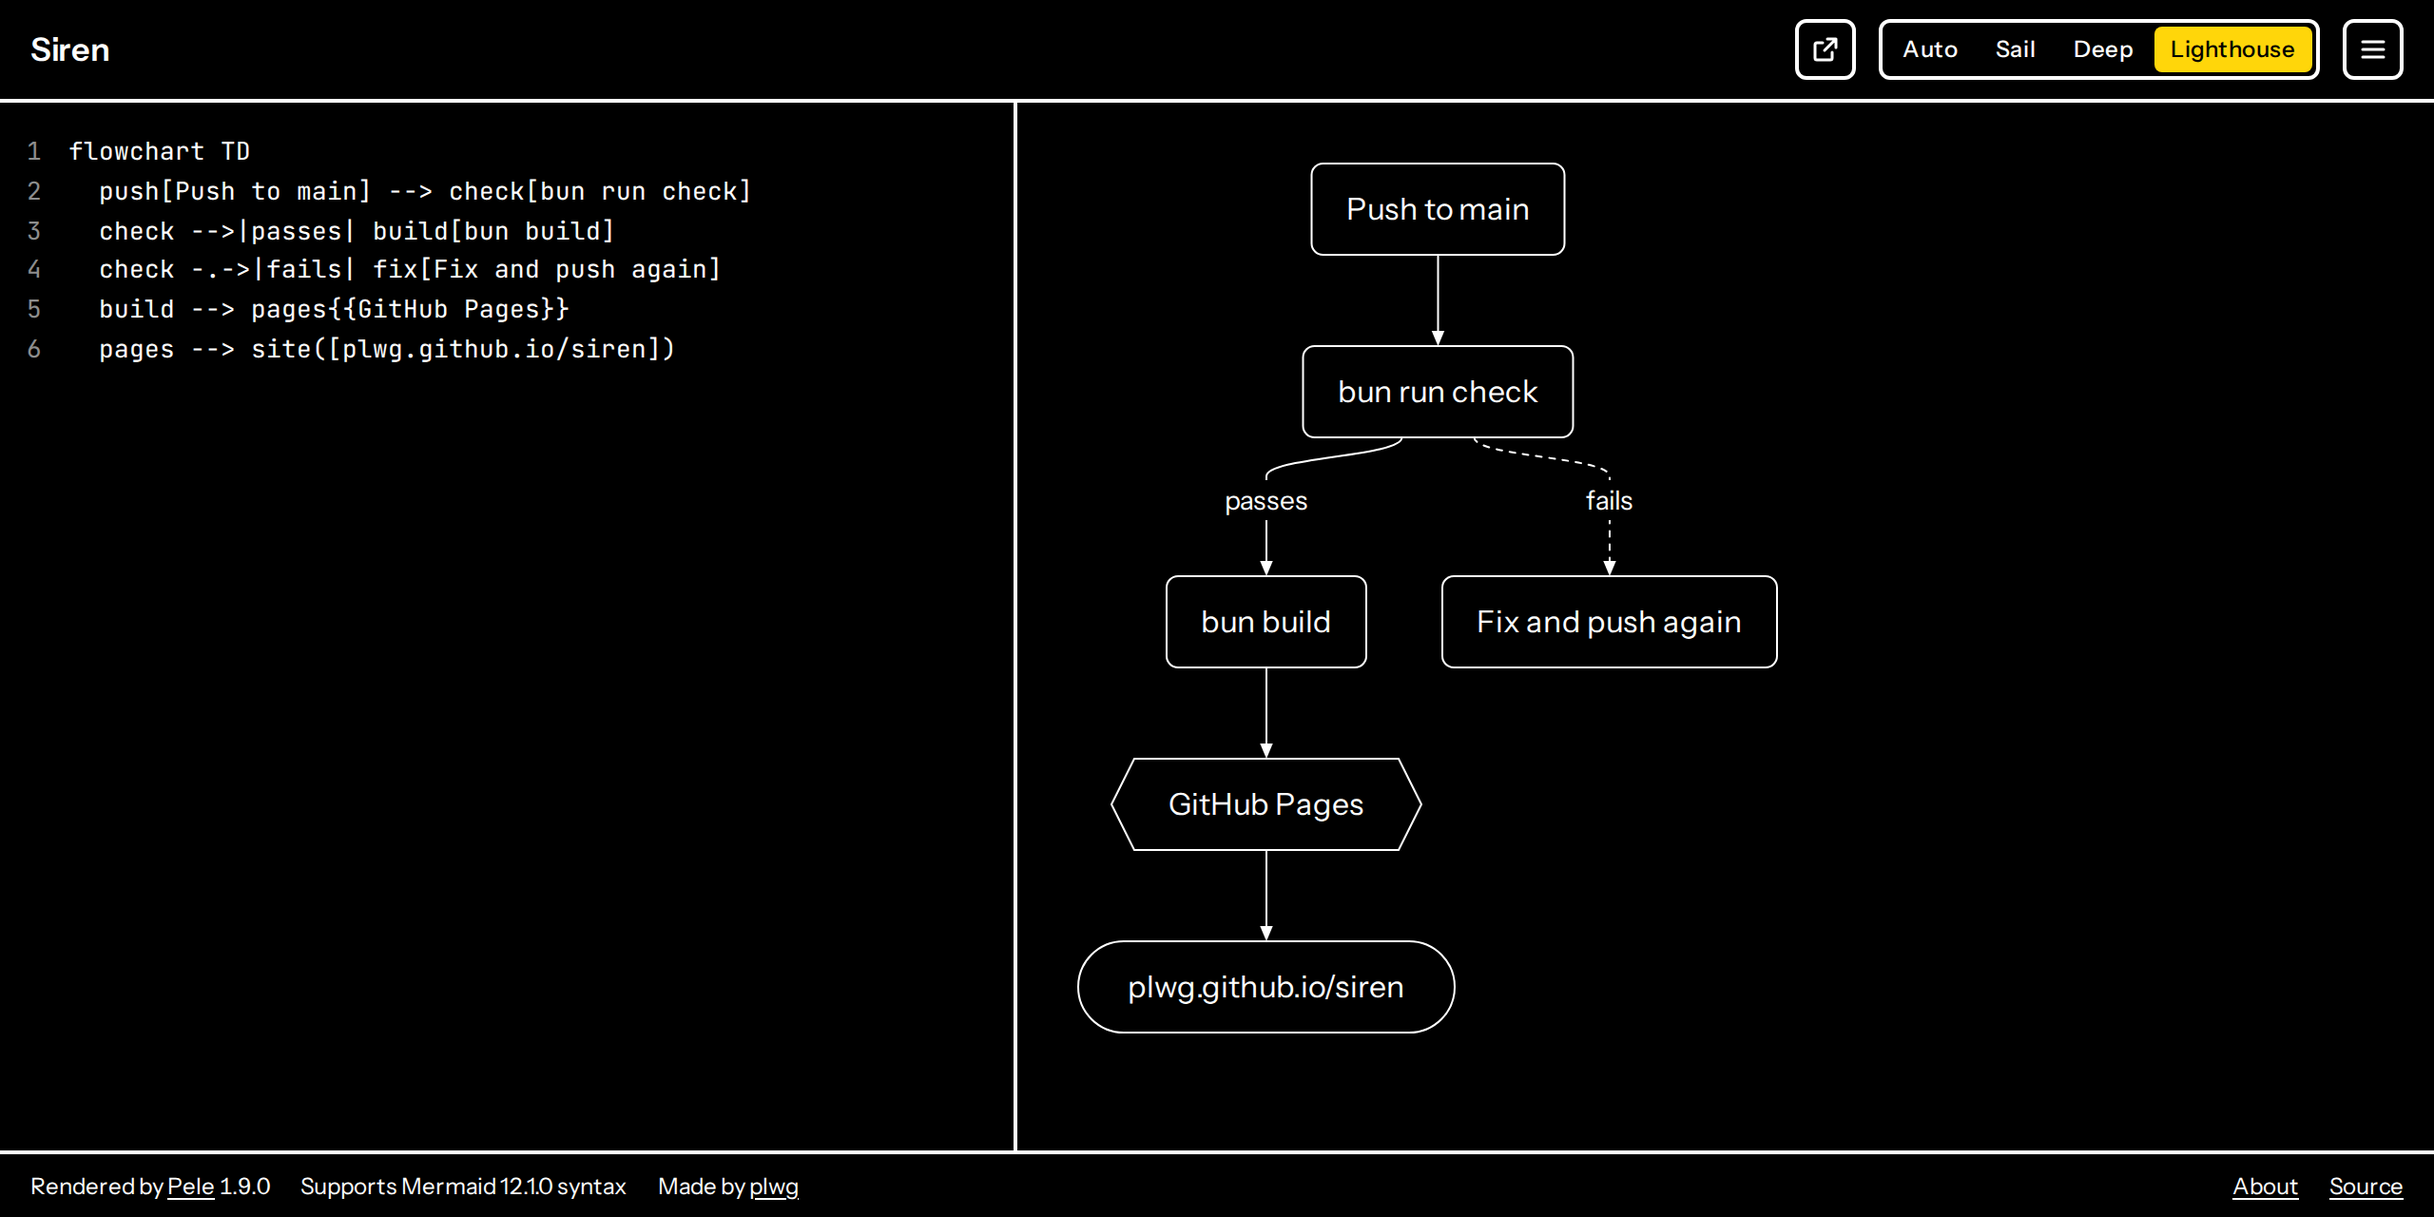
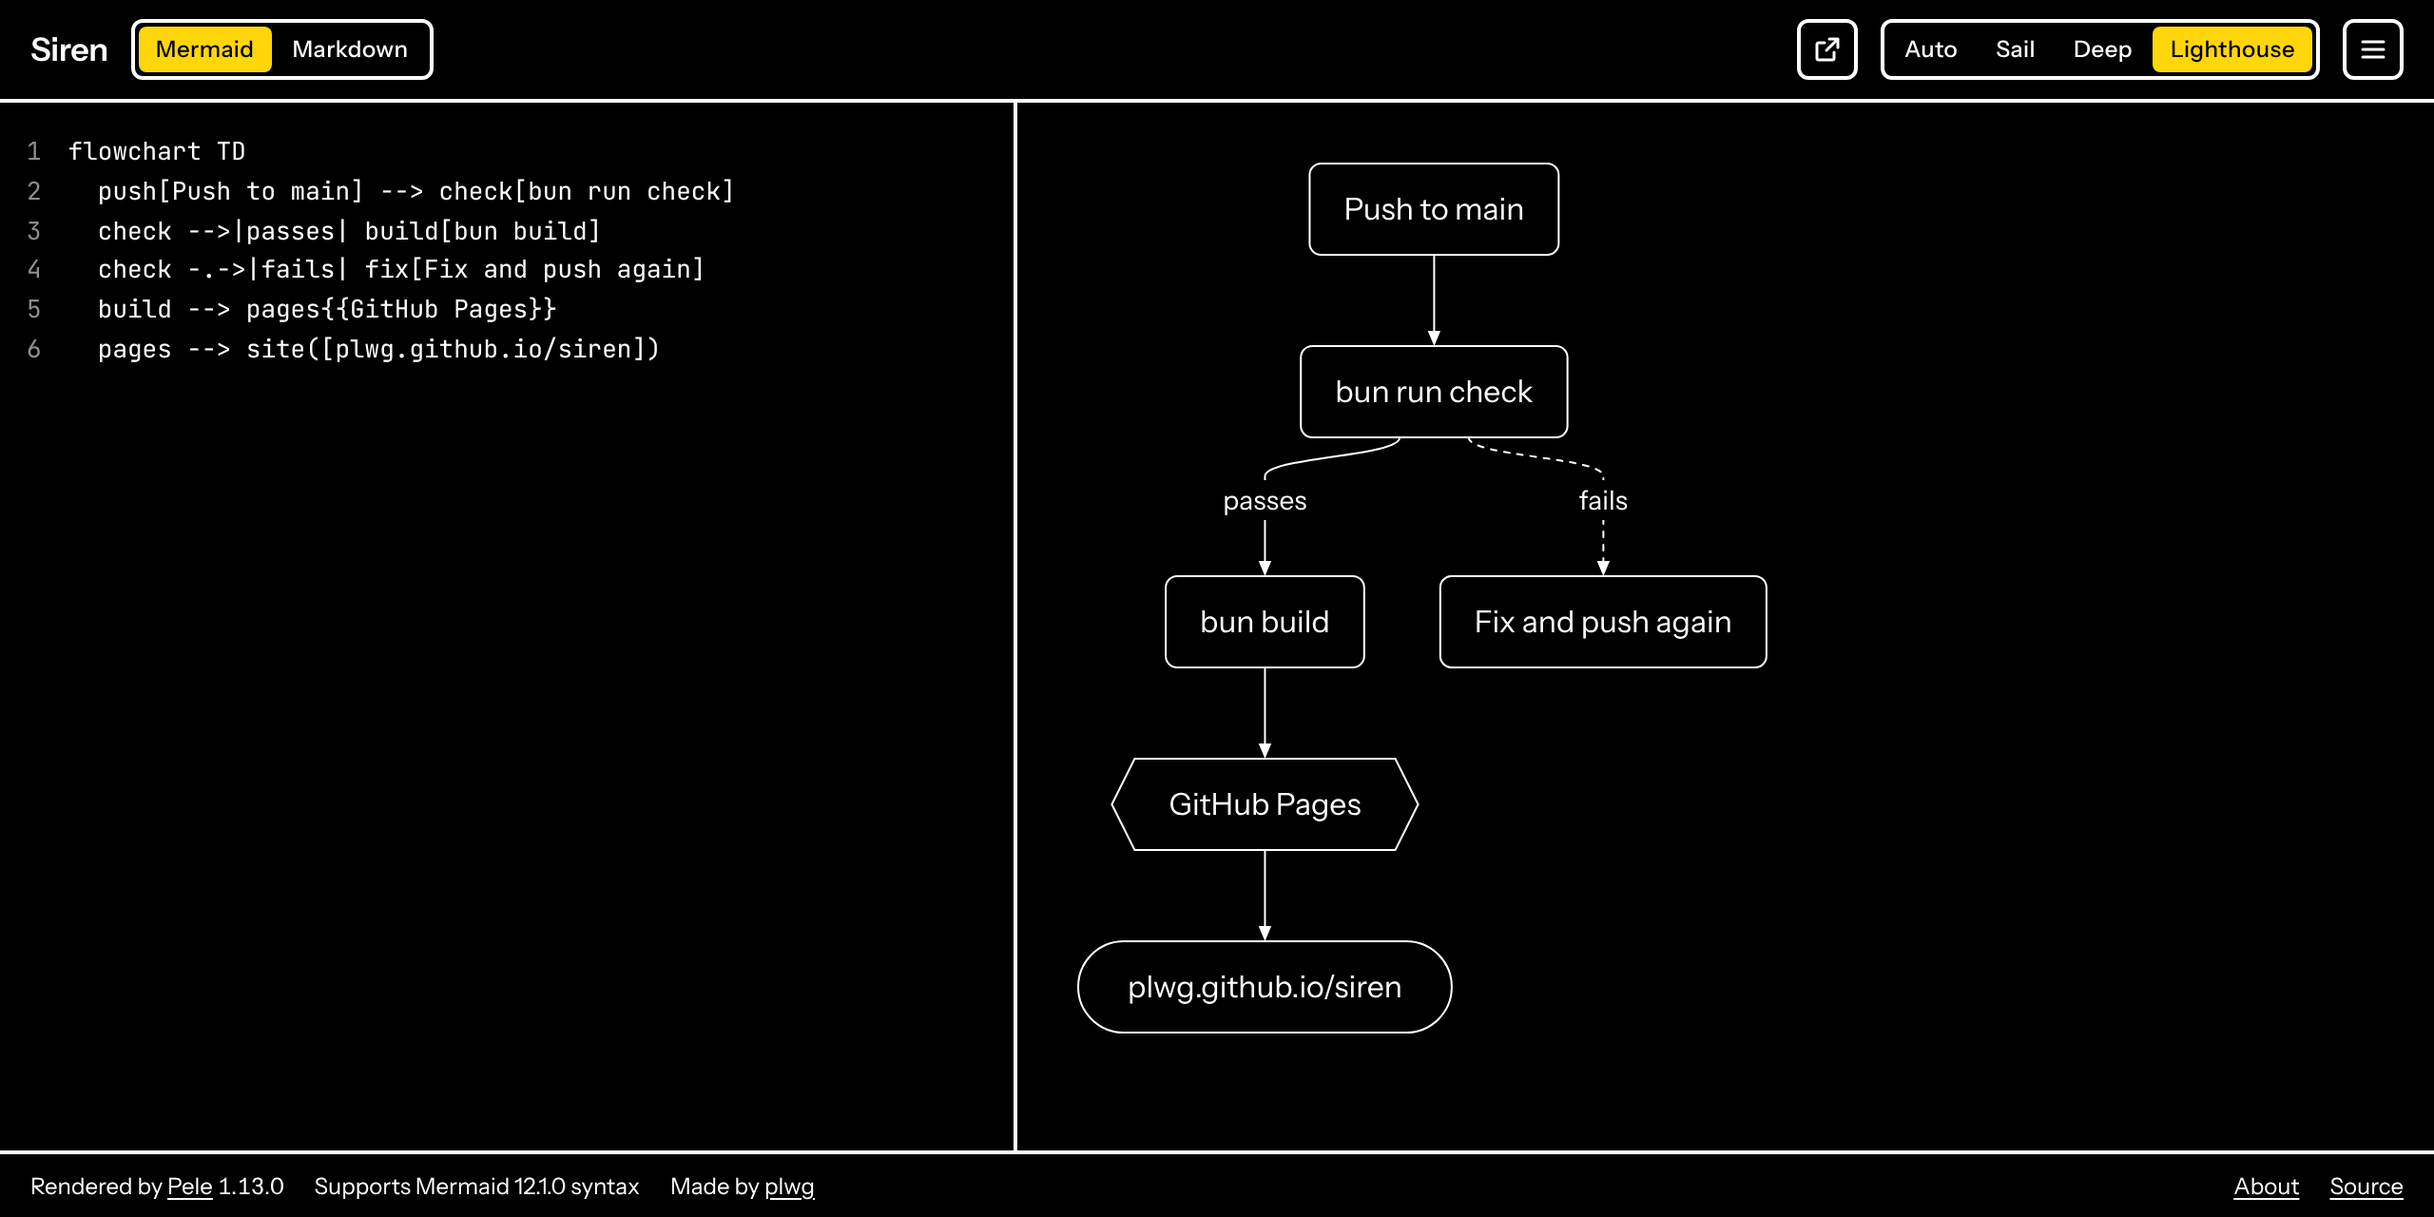
Simplify the README, move the details to docs/guide.md, retake screenshots
The README is now a short overview with a Markdown-mode screenshot, the
develop commands and the license. Everything it used to say lives in
docs/guide.md, grouped by topic and updated for both modes, with the
three theme screenshots.

The screenshot script adds desktop-markdown (the project plan example in
Sail); all screenshots and the link-preview image are retaken with the
mode switch and Pele 1.13.

diff --git a/scripts/screenshots.ts b/scripts/screenshots.ts
@@ -1,9 +1,11 @@
-// Regenerates the README screenshots, the link-preview image and the Apple touch icon from the
+// Regenerates the README and guide screenshots, the link-preview image and the Apple touch icon from the
 // built site: `bun run screenshots`.
 // Needs Chromium for Playwright once: `bunx playwright-core install chromium`.
 
 import { chromium } from 'playwright-core';
 import { encodeDiagram } from '../src/hash';
+import type { EditorMode } from '../src/mode';
+import { TEMPLATES } from '../src/templates';
 
 const OUT = 'docs/screenshots';
 
@@ -15,10 +17,14 @@ const DIAGRAM = `flowchart TD
   build --> pages{{GitHub Pages}}
   pages --> site([plwg.github.io/siren])`;
 
-const SHOTS = [
-  { name: 'desktop-light', theme: 'light' },
-  { name: 'desktop-dark', theme: 'dark' },
-  { name: 'desktop-contrast', theme: 'contrast' },
+// Markdown mode: the project plan example, a document with a Gantt chart and a sequence diagram.
+const DOCUMENT = TEMPLATES.find((t) => t.name === 'Project plan')?.text ?? '';
+
+const SHOTS: { name: string; theme: string; text: string; mode: EditorMode; height: number }[] = [
+  { name: 'desktop-markdown', theme: 'light', text: DOCUMENT, mode: 'markdown', height: 800 },
+  { name: 'desktop-light', theme: 'light', text: DIAGRAM, mode: 'mermaid', height: 640 },
+  { name: 'desktop-dark', theme: 'dark', text: DIAGRAM, mode: 'mermaid', height: 640 },
+  { name: 'desktop-contrast', theme: 'contrast', text: DIAGRAM, mode: 'mermaid', height: 640 },
 ];
 
 const server = Bun.serve({
@@ -33,14 +39,15 @@ const server = Bun.serve({
 const browser = await chromium.launch();
 const errors: string[] = [];
 try {
-  for (const { name, theme } of SHOTS) {
-    const context = await browser.newContext({ viewport: { width: 1280, height: 640 }, deviceScaleFactor: 2 });
+  for (const { name, theme, text, mode, height } of SHOTS) {
+    if (!text) throw new Error(`No text for ${name}.`);
+    const context = await browser.newContext({ viewport: { width: 1280, height }, deviceScaleFactor: 2 });
     await context.addInitScript((t) => localStorage.setItem('siren-theme', t), theme);
     const page = await context.newPage();
     page.on('pageerror', (error) => errors.push(`${name}: ${error.message}`));
-    await page.goto(`http://localhost:${server.port}/siren/#${encodeDiagram(DIAGRAM)}`);
+    await page.goto(`http://localhost:${server.port}/siren/#${encodeDiagram(text, mode)}`);
     await page.evaluate(() => document.fonts.ready);
-    await page.locator('#diagram svg').waitFor();
+    await page.locator('#diagram svg').first().waitFor();
     await page.waitForTimeout(300);
     await page.screenshot({ path: `${OUT}/${name}.png` });
     await context.close();

diff --git a/README.md b/README.md
@@ -1,54 +1,18 @@
 # Siren
 
-Render Mermaid diagrams, and Markdown documents with Mermaid diagrams in them, in the browser with [Pele](https://github.com/obsidianmd/pele).
+Write Mermaid diagrams, or Markdown documents with diagrams in them, and see them drawn as you type. Private, and works offline.
 
-Live at https://plwg.github.io/siren/
+**Live at https://plwg.github.io/siren/**
 
-<img alt="Siren in Lighthouse, the high-contrast theme: Mermaid source on the left, the rendered flowchart on the right" src="docs/screenshots/desktop-contrast.png">
+<img alt="Siren in Markdown mode: the document's source on the left, and on the right the rendered document with a Gantt chart and a sequence diagram" src="docs/screenshots/desktop-markdown.png">
 
-**Lighthouse**, the high-contrast theme: pure black and white with a single signal yellow, heavier strokes and strong focus rings. **Auto** picks it when your system asks for more contrast.
+- **Two modes:** one Mermaid diagram, or a Markdown document with any number of ```` ```mermaid ```` blocks.
+- **Share by link or QR code.** Your work is compressed into the link; no server ever sees it.
+- **Export** diagrams as SVG, PNG or a copied image, and documents as PDF or `.md`.
+- **Private and offline.** No accounts or tracking, and shared links can't load images or run scripts.
+- **Themes:** Sail (light), Deep (dark), Lighthouse (high contrast), or Auto.
 
-<table>
-  <tr>
-    <td valign="top"><img alt="Sail light theme" src="docs/screenshots/desktop-light.png" width="400"></td>
-    <td valign="top"><img alt="Deep dark theme" src="docs/screenshots/desktop-dark.png" width="400"></td>
-  </tr>
-  <tr>
-    <td>Sail (light)</td>
-    <td>Deep (dark)</td>
-  </tr>
-</table>
-
-- Click **Siren** in the header for a blank editor; Back returns to the previous diagram.
-- Type Mermaid on the left; the diagram renders on the right. The editor numbers lines, marks the line with an error, and strips the fences from a pasted ```` ```mermaid ```` block.
-- Two modes, switched beside the name (in the ☰ menu on phones): **Mermaid** for one diagram, and **Markdown** for a GitHub-flavored Markdown document in which each ```` ```mermaid ```` block is drawn as a diagram. Each mode keeps its own text: switching shows the other mode's text and changes neither, and after a reload the mode not in the link picks up what you last wrote in it. Back undoes a switch. The link carries the mode (`#d.` for a diagram, `#m.` for a document), so older links still open as diagrams.
-- In a document, a broken diagram shows its error in place and the editor marks its line. Only diagrams that changed are drawn again, so long documents stay quick to edit. A pasted ```` ```mermaid ```` block keeps its fences in Markdown mode.
-- On wider screens, drag the divider between the editor and the diagram to resize them (arrow keys work when it's focused; double-click resets).
-- On phones, **Code** and **Diagram** (or **Document**) tabs show one at a time at full height; the theme switcher and credits move into the ☰ menu.
-- The diagram or document is saved in the URL, compressed, so a link always carries it. Prose compresses to about six link characters per ten typed, so a long document makes a long link; Siren reads links of up to 200 KB of text.
-- Once the page has loaded, Siren needs no network: every diagram type, the QR code and exports are in the page, so it keeps working offline.
-- The ☰ menu shows what suits the mode. Its **Diagrams** or **Documents** section starts you from an example (flowchart, sequence, class, state, ER, Gantt, pie, mindmap, timeline, git graph; or release notes and a project plan) and lists your recent work in that mode, kept only in this browser.
-- Themes: **Sail** (light), **Deep** (dark), **Lighthouse** (high contrast), or **Auto** to follow the system. Add `?theme=light|dark|contrast` to a link to force one.
-- The ☰ menu holds sharing and export:
-  - **QR code** shows a scannable code of the view or editor link, to open the diagram on a phone; it can be downloaded as a PNG.
-  - **Copy link** opens the editor with the diagram; **Copy view link** shows only the diagram, in the theme you picked, with an **Edit in Siren** button to open it in the editor.
-  - **Copy image** puts a PNG on the clipboard to paste into documents; **SVG** and **PNG** download files.
-  - In Markdown mode, **PDF** opens the browser's print dialog (choose Save as PDF): only the document, in light colors whatever the theme, named after its first heading. **Markdown file** downloads the text as `.md`, and **Open Markdown file…** (under Documents) opens one from your device, keeping the current document in Recent.
-  - Exports ignore the editor theme. They use plain greys with a blue accent. Choose **Light** or **Dark** and a **Clear** or **Solid** background. Text is set in Arial so it fits in any document app.
-
-## Security
-
-Anyone can craft a Siren link, so diagrams are treated as untrusted:
-
-- [Pele](https://pele.run/security) draws labels as text, drops `click` callbacks, and blocks `javascript:` and `data:` links.
-- A Content Security Policy lets only Siren's own scripts run and blocks loading anything from other sites. `bun run build` fails if the inline theme script and its hash in the policy drift apart; `bun scripts/check-csp.ts --write` updates the hash.
-- Markdown is rendered by [Marked](https://marked.js.org) with raw HTML shown as text, links kept only for `http`, `https`, `mailto` and `tel`, and images replaced by a placeholder naming them.
-- Diagram images are not loaded, so a shared link can't track who views it. Each shows as a dashed placeholder, and a warning says so. Icons (such as `fa:fa-car`) aren't bundled; the warning names them.
-- Diagram links are drawn in the accent color with underlined labels, ask before opening, and show where they really go. Exports contain no links or images.
-- Fonts are self-hosted, so viewing Siren sends nothing to a font host. The diagram itself lives after the `#` in the URL and is never sent to any server.
-- GitHub Actions are pinned to commit hashes, and Dependabot proposes updates.
-
-Siren runs on `plwg.github.io`, which it shares with any other GitHub Pages sites under that account. It stores only theme and export preferences.
+Rendered by [Pele](https://github.com/obsidianmd/pele) and [Marked](https://marked.js.org). See the **[guide](docs/guide.md)** for every feature and how Siren handles untrusted links.
 
 ## Develop
 
@@ -56,18 +20,15 @@ Requires [Bun](https://bun.sh).
 
 ```sh
 bun install
-bun run dev        # local dev server
-bun run typecheck
-bun run lint       # Biome: lint and formatting check
-bun run format     # Biome: fix formatting and import order
-bun run check      # lint, typecheck, test and build: run before committing
-bun run screenshots  # rebuild the README screenshots, link-preview image and touch icon
+bun run dev          # local dev server
+bun run check        # lint, typecheck, test and build: run before committing
+bun run format       # Biome: fix formatting and import order
+bun run screenshots  # rebuild the screenshots, link-preview image and touch icon
                      # (first: bunx playwright-core install chromium)
-bun run build      # outputs to dist/
 ```
 
 Pushing to `main` builds and deploys to GitHub Pages via `.github/workflows/pages.yml`.
 
 ## License
 
-[MIT](LICENSE). Pele, the fonts and other dependencies keep their own licenses.
+[MIT](LICENSE). Pele, Marked, the fonts and other dependencies keep their own licenses.

diff --git a/docs/guide.md b/docs/guide.md
@@ -1,0 +1,78 @@
+# Siren guide
+
+Everything Siren does, in detail. For a quick overview, see the [README](../README.md).
+
+<img alt="Siren in Markdown mode, Sail theme: a project plan with a Gantt chart and a sequence diagram" src="screenshots/desktop-markdown.png">
+
+## Writing
+
+- Click **Siren** in the header for a blank editor; Back returns to what you had before.
+- Type on the left; it renders on the right. The editor numbers lines and marks the line with an error.
+- On wider screens, drag the divider between the editor and the preview to resize them (arrow keys work when it's focused; double-click resets).
+- On phones, **Code** and **Diagram** (or **Document**) tabs show one at a time at full height; the mode and theme switchers and the credits move into the ☰ menu.
+
+## Two modes
+
+Switch modes beside the name (in the ☰ menu on phones):
+
+- **Mermaid**: the text is one diagram. A pasted ```` ```mermaid ```` block loses its fences.
+- **Markdown**: the text is a GitHub-flavored Markdown document (headings, lists, tables, task lists), and each ```` ```mermaid ```` block in it is drawn as a diagram. A broken diagram shows its error in place, and the editor marks its line. Only diagrams that changed are drawn again, so long documents stay quick to edit. A pasted ```` ```mermaid ```` block keeps its fences.
+
+Each mode keeps its own text: switching shows the other mode's text and changes neither. After a reload, the mode not in the link picks up what you last wrote in it. Back undoes a switch.
+
+## Links
+
+- The diagram or document is saved in the URL after `#`, compressed, so a link always carries it. The link records the mode (`#d.` for a diagram, `#m.` for a document); older links open as diagrams.
+- Prose compresses to about six link characters per ten typed, so a long document makes a long link. Siren reads links of up to 200 KB of text, and opens Markdown files up to the same size so that every document survives a reload. Chat and email apps may cut very long links short; send the `.md` file instead.
+- Once the page has loaded, Siren needs no network: every diagram type, Markdown, the QR code and exports are in the page, so it keeps working offline.
+
+## The ☰ menu
+
+The menu shows what suits the mode.
+
+- **Share**
+  - **Copy link** opens the editor with your work; **Copy view link** shows only the preview, in the theme you picked, with an **Edit in Siren** button to open it in the editor.
+  - **QR code** shows a scannable code of the view or editor link, to open it on a phone; it can be downloaded as a PNG. Long documents are too long for a QR code, and Siren says so.
+- **Export**, in Mermaid mode
+  - **Copy image** puts a PNG on the clipboard to paste into documents; **SVG** and **PNG** download files.
+  - Exports ignore the editor theme. They use plain greys with a blue accent. Choose **Light** or **Dark** and a **Clear** or **Solid** background. Text is set in Arial so it fits in any document app.
+- **Export**, in Markdown mode
+  - **PDF** opens the browser's print dialog (choose Save as PDF): only the document, in light colors whatever the theme, named after its first heading. Text stays selectable and diagrams stay sharp.
+  - **Markdown file** downloads the text as `.md`.
+- **Diagrams** or **Documents**
+  - Start from an example: flowchart, sequence, class, state, ER, Gantt, pie, mindmap, timeline and git graph; or release notes and a project plan.
+  - **Open Markdown file…** (Markdown mode) opens a `.md` file from your device. It is read in the browser and sent nowhere; the current document is kept in Recent, and Undo brings it back.
+  - Recent work in the current mode, kept only in this browser.
+
+## Themes
+
+**Sail** (light), **Deep** (dark), **Lighthouse** (high contrast), or **Auto** to follow the system. Add `?theme=light|dark|contrast` to a link to force one.
+
+**Lighthouse** is pure black and white with a single signal yellow, heavier strokes and strong focus rings. **Auto** picks it when your system asks for more contrast.
+
+<table>
+  <tr>
+    <td valign="top"><img alt="Sail light theme" src="screenshots/desktop-light.png" width="400"></td>
+    <td valign="top"><img alt="Deep dark theme" src="screenshots/desktop-dark.png" width="400"></td>
+    <td valign="top"><img alt="Lighthouse high-contrast theme" src="screenshots/desktop-contrast.png" width="400"></td>
+  </tr>
+  <tr>
+    <td>Sail (light)</td>
+    <td>Deep (dark)</td>
+    <td>Lighthouse (high contrast)</td>
+  </tr>
+</table>
+
+## Security
+
+Anyone can craft a Siren link, so diagrams and documents are treated as untrusted:
+
+- [Pele](https://pele.run/security) draws labels as text, drops `click` callbacks, and blocks `javascript:` and `data:` links.
+- Markdown is rendered by [Marked](https://marked.js.org) with raw HTML shown as text, links kept only for `http`, `https`, `mailto` and `tel`, and images replaced by a placeholder naming them.
+- A Content Security Policy lets only Siren's own scripts run and blocks loading anything from other sites. `bun run build` fails if the inline theme script and its hash in the policy drift apart; `bun scripts/check-csp.ts --write` updates the hash.
+- Images are not loaded, so a shared link can't track who views it. Each shows as a dashed placeholder, and a warning says so. Icons (such as `fa:fa-car`) aren't bundled; the warning names them.
+- Links are drawn in the accent color, ask before opening, and show where they really go. Diagram exports contain no links or images.
+- Fonts are self-hosted, so viewing Siren sends nothing to a font host. Your work lives after the `#` in the URL and is never sent to any server.
+- GitHub Actions are pinned to commit hashes, and Dependabot proposes updates.
+
+Siren runs on `plwg.github.io`, which it shares with any other GitHub Pages sites under that account. In this browser it stores your theme and export preferences and your recent work, which **Clear recent** removes.
